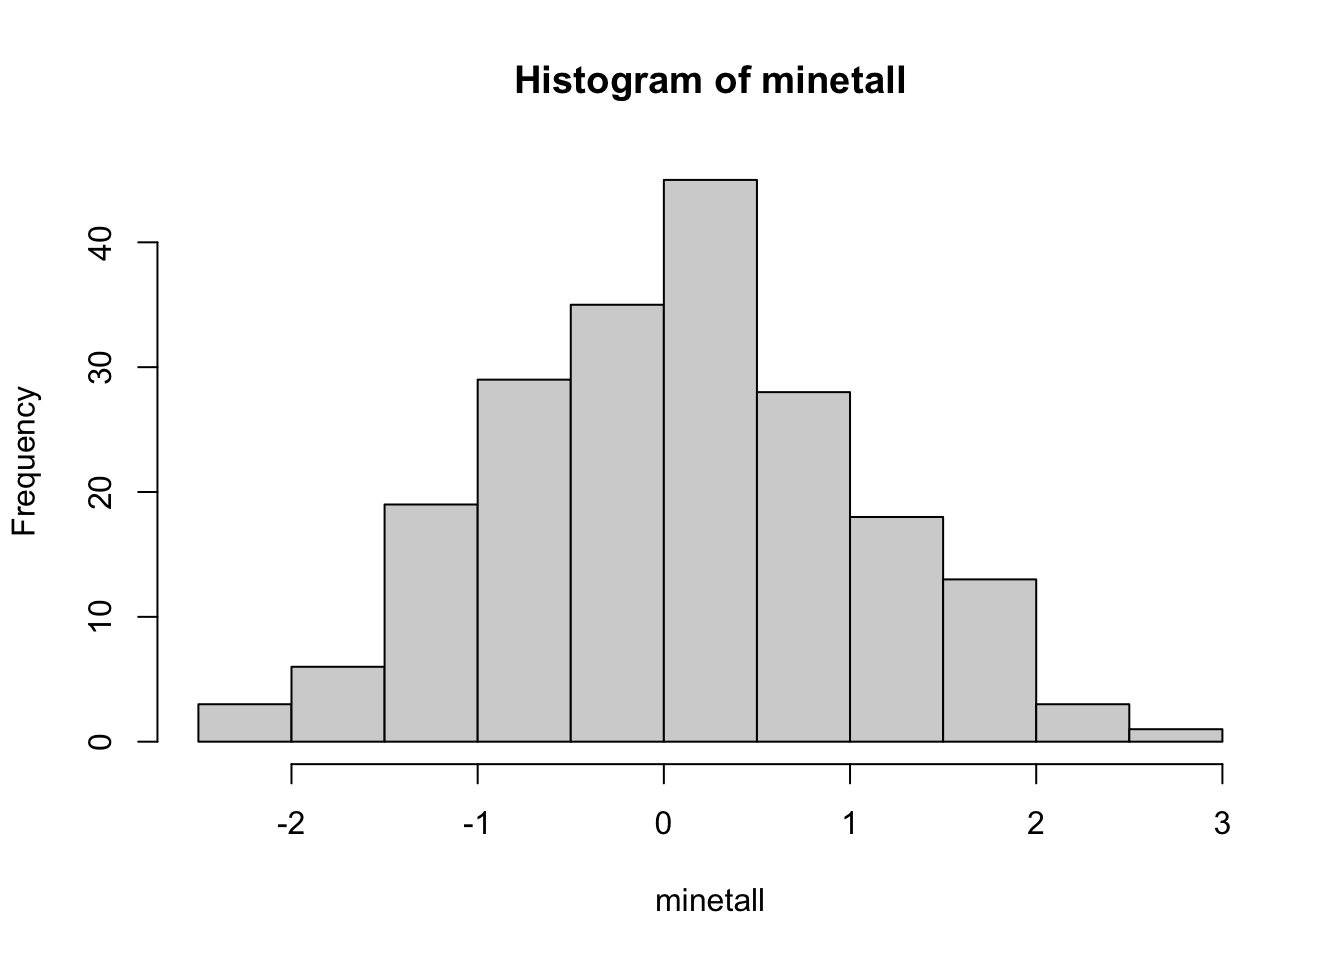
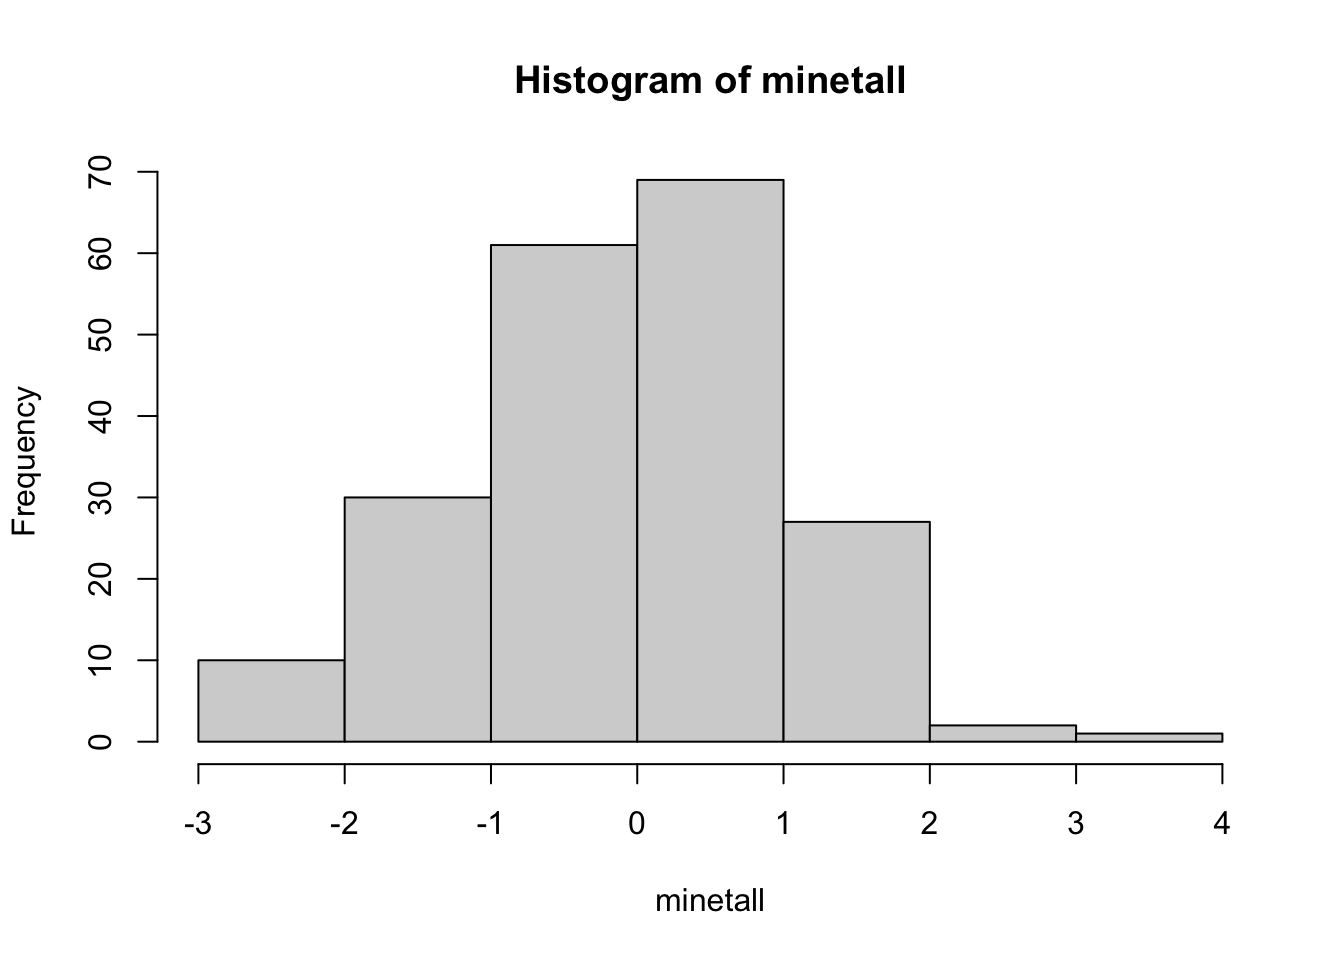
df

diff --git a/docs/samlinger/samling1.html b/docs/samlinger/samling1.html
@@ -2,7 +2,7 @@
 <html xmlns="http://www.w3.org/1999/xhtml" lang="en" xml:lang="en"><head>
 
 <meta charset="utf-8">
-<meta name="generator" content="quarto-1.3.353">
+<meta name="generator" content="quarto-1.3.450">
 
 <meta name="viewport" content="width=device-width, initial-scale=1.0, user-scalable=yes">
 
@@ -58,7 +58,8 @@ ul.task-list li input[type="checkbox"] {
     "search-more-matches-text": "more matches in this document",
     "search-clear-button-title": "Clear",
     "search-detached-cancel-button-title": "Cancel",
-    "search-submit-button-title": "Submit"
+    "search-submit-button-title": "Submit",
+    "search-label": "Search"
   }
 }</script>
 
@@ -77,7 +78,7 @@ ul.task-list li input[type="checkbox"] {
       <nav class="quarto-page-breadcrumbs" aria-label="breadcrumb"><ol class="breadcrumb"><li class="breadcrumb-item"><a href="../samlinger/samling1.html">Samlinger</a></li><li class="breadcrumb-item"><a href="../samlinger/samling1.html">Samling 1</a></li></ol></nav>
       <a class="flex-grow-1" role="button" data-bs-toggle="collapse" data-bs-target="#quarto-sidebar,#quarto-sidebar-glass" aria-controls="quarto-sidebar" aria-expanded="false" aria-label="Toggle sidebar navigation" onclick="if (window.quartoToggleHeadroom) { window.quartoToggleHeadroom(); }">      
       </a>
-      <button type="button" class="btn quarto-search-button" aria-label="Search" onclick="window.quartoOpenSearch();">
+      <button type="button" class="btn quarto-search-button" aria-label="" onclick="window.quartoOpenSearch();">
         <i class="bi bi-search"></i>
       </button>
     </div>

diff --git a/docs/samlinger/samling2.html b/docs/samlinger/samling2.html
@@ -2,7 +2,7 @@
 <html xmlns="http://www.w3.org/1999/xhtml" lang="en" xml:lang="en"><head>
 
 <meta charset="utf-8">
-<meta name="generator" content="quarto-1.3.353">
+<meta name="generator" content="quarto-1.3.450">
 
 <meta name="viewport" content="width=device-width, initial-scale=1.0, user-scalable=yes">
 
@@ -90,7 +90,8 @@ pre > code.sourceCode > span > a:first-child::before { text-decoration: underlin
     "search-more-matches-text": "more matches in this document",
     "search-clear-button-title": "Clear",
     "search-detached-cancel-button-title": "Cancel",
-    "search-submit-button-title": "Submit"
+    "search-submit-button-title": "Submit",
+    "search-label": "Search"
   }
 }</script>
 
@@ -109,7 +110,7 @@ pre > code.sourceCode > span > a:first-child::before { text-decoration: underlin
       <nav class="quarto-page-breadcrumbs" aria-label="breadcrumb"><ol class="breadcrumb"><li class="breadcrumb-item">Digital samling - 6 feb</li></ol></nav>
       <a class="flex-grow-1" role="button" data-bs-toggle="collapse" data-bs-target="#quarto-sidebar,#quarto-sidebar-glass" aria-controls="quarto-sidebar" aria-expanded="false" aria-label="Toggle sidebar navigation" onclick="if (window.quartoToggleHeadroom) { window.quartoToggleHeadroom(); }">      
       </a>
-      <button type="button" class="btn quarto-search-button" aria-label="Search" onclick="window.quartoOpenSearch();">
+      <button type="button" class="btn quarto-search-button" aria-label="" onclick="window.quartoOpenSearch();">
         <i class="bi bi-search"></i>
       </button>
     </div>

diff --git a/docs/Ressurser.html b/docs/Ressurser.html
@@ -267,11 +267,11 @@ pre > code.sourceCode > span > a:first-child::before { text-decoration: underlin
 </div>
 <div class="sourceCode cell-code" id="cb2"><pre class="sourceCode r code-with-copy"><code class="sourceCode r"><span id="cb2-1"><a href="#cb2-1" aria-hidden="true" tabindex="-1"></a><span class="fu">mean</span>(minetall)</span></code><button title="Copy to Clipboard" class="code-copy-button"><i class="bi"></i></button></pre></div>
 <div class="cell-output cell-output-stdout">
-<pre><code>[1] -0.01442554</code></pre>
+<pre><code>[1] -0.04786323</code></pre>
 </div>
 <div class="sourceCode cell-code" id="cb4"><pre class="sourceCode r code-with-copy"><code class="sourceCode r"><span id="cb4-1"><a href="#cb4-1" aria-hidden="true" tabindex="-1"></a><span class="fu">median</span>(minetall)</span></code><button title="Copy to Clipboard" class="code-copy-button"><i class="bi"></i></button></pre></div>
 <div class="cell-output cell-output-stdout">
-<pre><code>[1] -0.1073033</code></pre>
+<pre><code>[1] -0.003069016</code></pre>
 </div>
 </div>
 

diff --git a/docs/slides/slides2.html b/docs/slides/slides2.html
@@ -8,7 +8,7 @@
 <link href="../site_libs/quarto-html/light-border.css" rel="stylesheet">
 <link href="../site_libs/quarto-html/quarto-html.min.css" rel="stylesheet" data-mode="light">
 <link href="../site_libs/quarto-html/quarto-syntax-highlighting.css" rel="stylesheet" id="quarto-text-highlighting-styles"><meta charset="utf-8">
-  <meta name="generator" content="quarto-1.3.353">
+  <meta name="generator" content="quarto-1.3.450">
 
   <title>MPS 140 - Lineær Regresjon. Digital samling 1</title>
   <meta name="apple-mobile-web-app-capable" content="yes">

diff --git a/docs/slides/slides1.html b/docs/slides/slides1.html
@@ -8,7 +8,7 @@
 <link href="../site_libs/quarto-html/light-border.css" rel="stylesheet">
 <link href="../site_libs/quarto-html/quarto-html.min.css" rel="stylesheet" data-mode="light">
 <link href="../site_libs/quarto-html/quarto-syntax-highlighting.css" rel="stylesheet" id="quarto-text-highlighting-styles"><meta charset="utf-8">
-  <meta name="generator" content="quarto-1.3.353">
+  <meta name="generator" content="quarto-1.3.450">
 
   <title>MPS 140 - Velkommen til MPS140</title>
   <meta name="apple-mobile-web-app-capable" content="yes">
